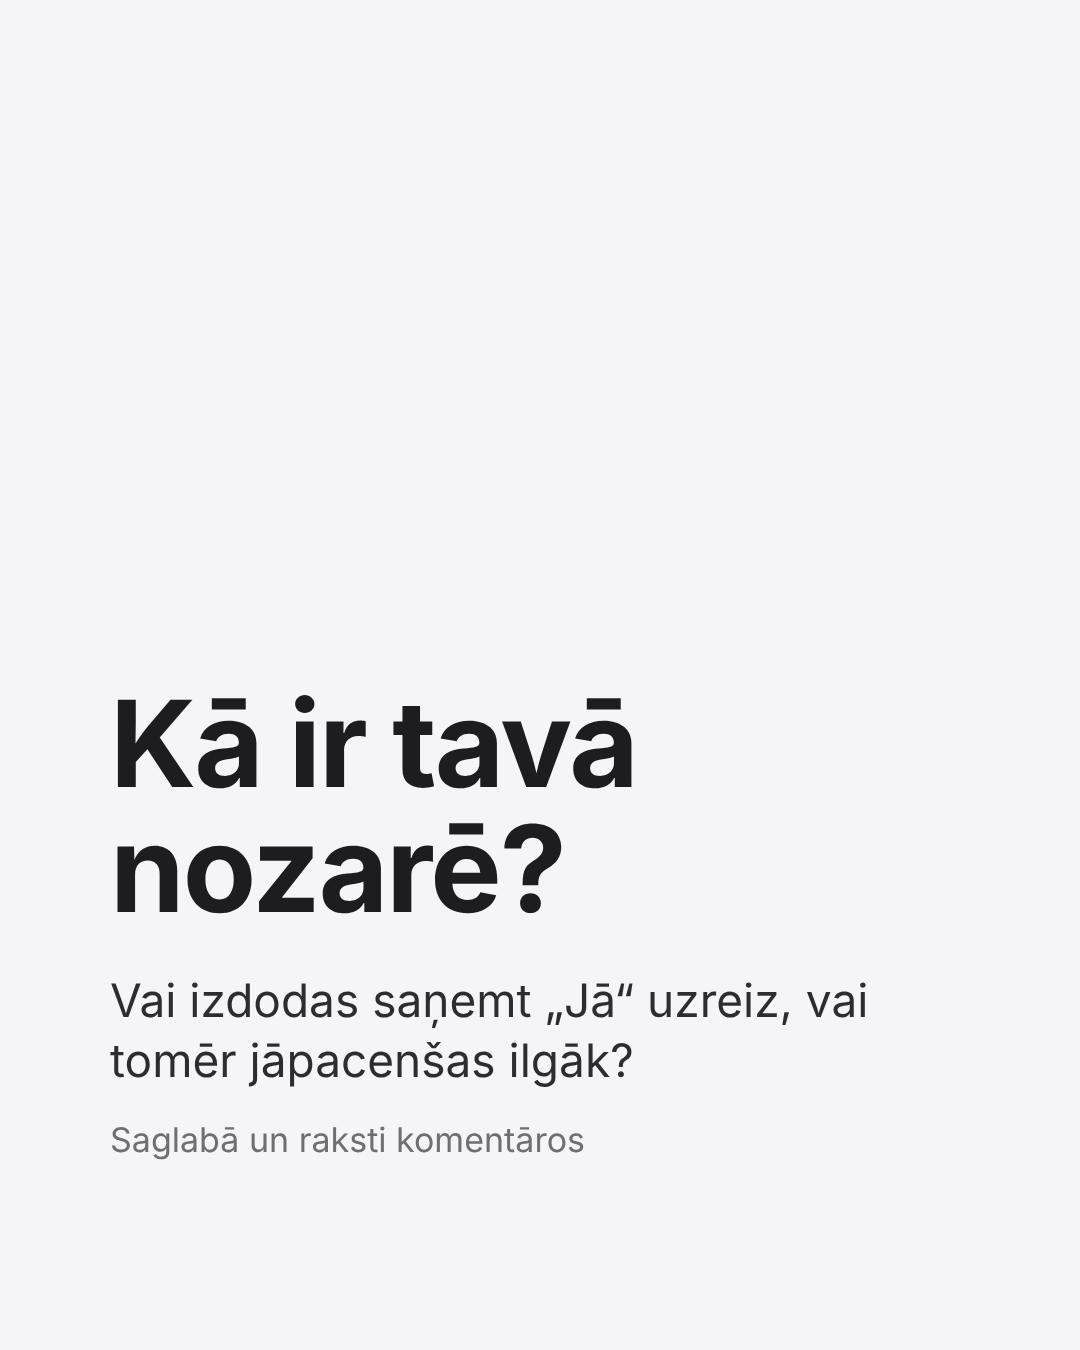
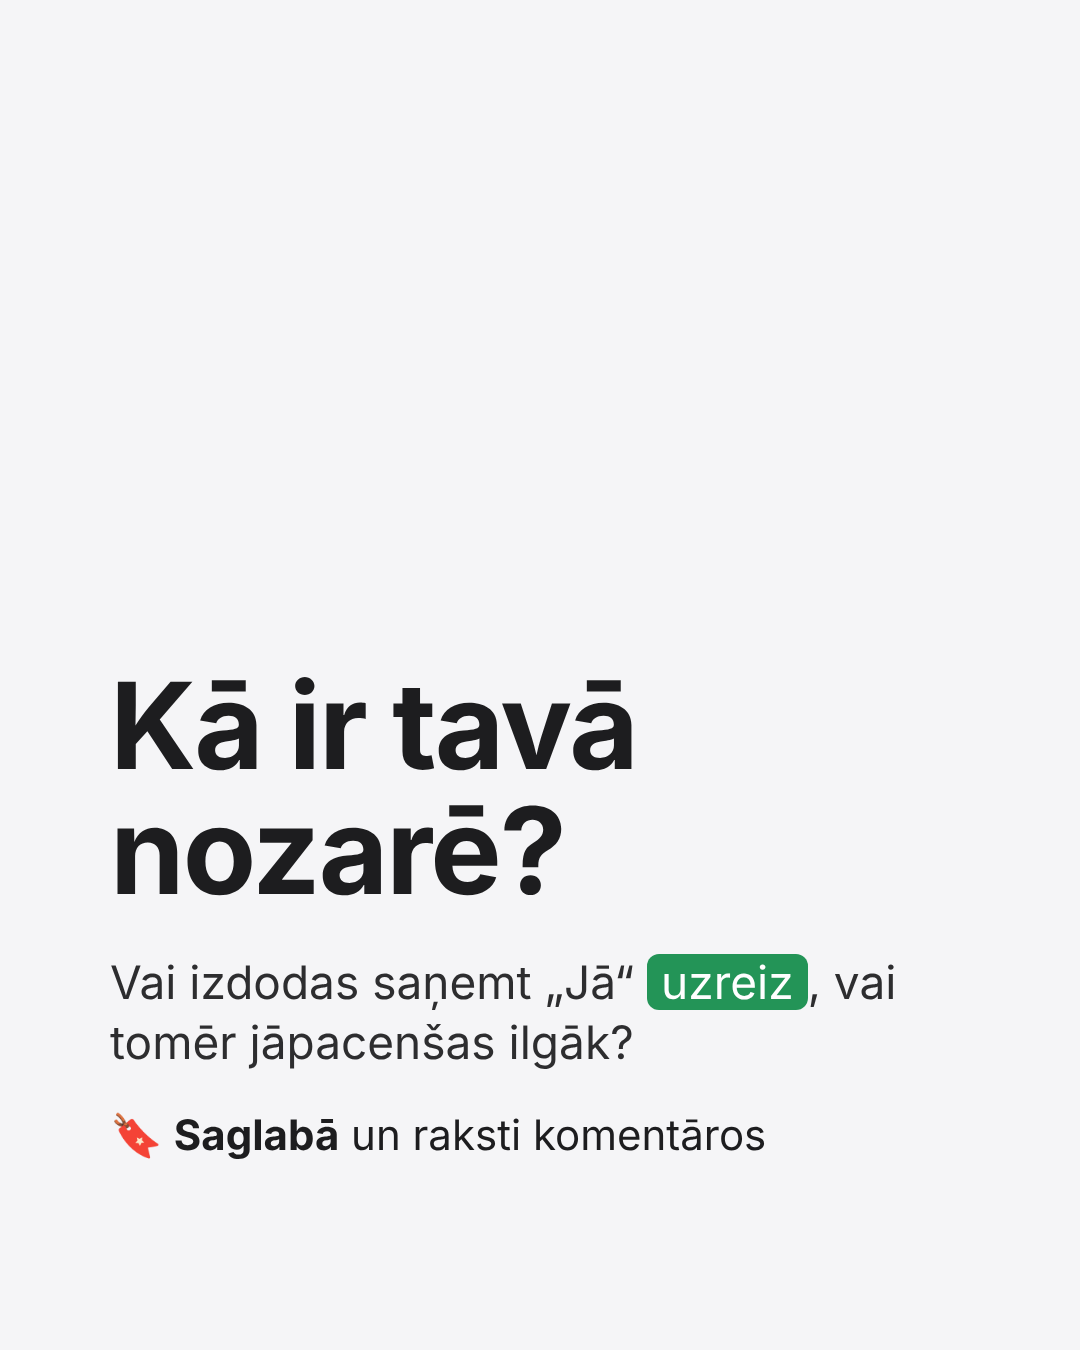
Final slide: green highlight on 'uzreiz', bookmark save line in bold
Claude-Session: https://claude.ai/code/session_01BfJAaEZY2EfD7nu2Y1Q1pB

Changed region(s): [[0.0917, 0.6844, 0.825, 0.8711], [0.0917, 0.4978, 0.5806, 0.6844]]

diff --git a/brand/zimols/render.js b/brand/zimols/render.js
@@ -44,6 +44,7 @@ box-shadow:inset -28px -36px 70px rgba(0,0,0,.32),inset 26px 26px 50px rgba(255,
 .chk{flex:0 0 auto;width:68px;height:68px;border-radius:50%;background:${C.accent};color:#fff;display:flex;align-items:center;justify-content:center;font-size:38px;font-weight:700}
 .card .lbl{font-size:42px;font-weight:600;line-height:1.2;color:${C.ink}}
 .qpill{display:inline-block;white-space:nowrap;background:${C.accent};color:#fff;font-weight:700;font-size:92px;line-height:1.1;letter-spacing:-1px;padding:34px 52px;border-radius:40px}
+.hl{background:${C.accent};color:#fff;padding:0 14px;border-radius:12px;-webkit-box-decoration-break:clone;box-decoration-break:clone}
 .bg-ink{background:${C.ink}} .bg-paper{background:${C.paper};color:${C.ink}} .bg-accent{background:${C.accent};color:${C.accent_ink}}
 .bg-paper .eyebrow{color:${C.accent}} .bg-paper .footer{color:${C.accent}} .bg-paper .list li:before{background:${C.accent}}
 .bg-accent .eyebrow{color:${C.accent_ink}} .bg-accent .footer{color:${C.accent_ink}} .bg-accent .list li:before{background:${C.accent_ink}}
@@ -81,7 +82,7 @@ function slide(s) {
   if (s.type === 'question') {
     const top = s.top ? `<div class="display" style="font-size:${s.topSize || 76}px;margin-bottom:44px">${s.top}</div>` : '';
     const head = s.plain ? `<div class="display" style="font-size:${s.headlineSize || 120}px">${s.headline}</div>` : `<div class="qpill">${s.headline}</div>`;
-    return `<div class="s bg-${s.bg || 'paper'}"><div class="pad">${top}${head}${s.sub ? `<div class="sub" style="margin-top:40px">${s.sub}</div>` : ''}${s.sub2 ? `<div style="margin-top:28px;font-size:34px;color:${C.muted}">${s.sub2}</div>` : ''}</div></div>`;
+    return `<div class="s bg-${s.bg || 'paper'}"><div class="pad">${top}${head}${s.sub ? `<div class="sub" style="margin-top:40px">${s.sub}</div>` : ''}${s.sub2 ? `<div style="margin-top:36px;font-size:42px;font-weight:400;color:${C.ink}">${s.sub2}</div>` : ''}</div></div>`;
   }
   throw new Error('unknown slide type ' + s.type);
 }
